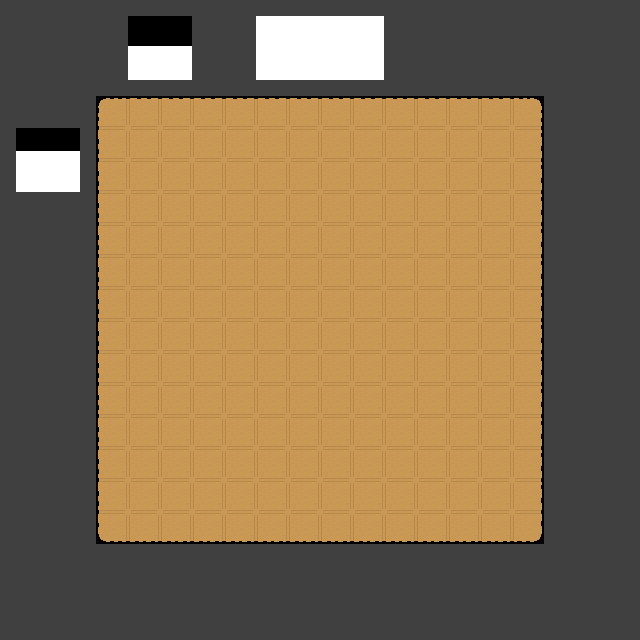
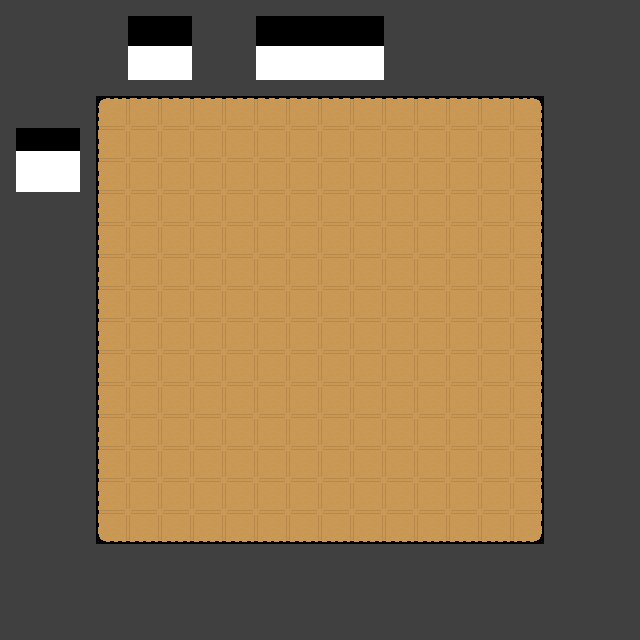
GUI update to market

Changed region(s): [[0.375, 0.0, 0.625, 0.0938]]

diff --git a/javascript/GUIManager.js b/javascript/GUIManager.js
@@ -4,7 +4,7 @@ let ctx = document.getElementById("canv").getContext("2d");
 // 0, 112, 127
 
 let GUI_Market = [
-	new Display
+	new Display // tools
 	(
 		ctx,
 		new Rect(ctx, new Vector2(24, 24), new Vector2(592, 592), "rgb(0,123,140)", true, 4, "rgb(0,0,0)"),
@@ -27,35 +27,35 @@ let GUI_Market = [
 			( // watering can 1
 				ctx,
 				new Rect(ctx, new Vector2(12, 12), new Vector2(184, 184), "rgb(0,0,0)", true, 4, "rgb(0,0,0)"),
-				new Text(ctx, new Rect(ctx, new Vector2(0, 0), new Vector2(0, 0), "rgb(0,0,0)", false, 0, "rgb(0,0,0)"), "", ""),
+				new Text(ctx, new Rect(ctx, new Vector2(28, 150), new Vector2(0, 0), "rgb(0,0,0)", false, 0, "rgb(0,0,0)"), Item.getItemByID(12).cost + " Coins", "32px helvetica"),
 				"rgb(200,200,200)", "rgb(180,180,180)", "rgb(160,160,160)"
 			),
 			new Button
 			( // watering can 2
 				ctx,
 				new Rect(ctx, new Vector2(204, 12), new Vector2(184, 184), "rgb(0,0,0)", true, 4, "rgb(0,0,0)"),
-				new Text(ctx, new Rect(ctx, new Vector2(0, 0), new Vector2(0, 0), "rgb(0,0,0)", false, 0, "rgb(0,0,0)"), "", ""),
+				new Text(ctx, new Rect(ctx, new Vector2(28, 150), new Vector2(0, 0), "rgb(0,0,0)", false, 0, "rgb(0,0,0)"), Item.getItemByID(13).cost + " Coins", "32px helvetica"),
 				"rgb(200,200,200)", "rgb(180,180,180)", "rgb(160,160,160)"
 			),
 			new Button
 			( // watering can 3
 				ctx,
 				new Rect(ctx, new Vector2(396, 12), new Vector2(184, 184), "rgb(0,0,0)", true, 4, "rgb(0,0,0)"),
-				new Text(ctx, new Rect(ctx, new Vector2(0, 0), new Vector2(0, 0), "rgb(0,0,0)", false, 0, "rgb(0,0,0)"), "", ""),
+				new Text(ctx, new Rect(ctx, new Vector2(28, 150), new Vector2(0, 0), "rgb(0,0,0)", false, 0, "rgb(0,0,0)"), Item.getItemByID(14).cost + " Coins", "32px helvetica"),
 				"rgb(200,200,200)", "rgb(180,180,180)", "rgb(160,160,160)"
 			),
 			new Button
 			( // trowel
 				ctx,
 				new Rect(ctx, new Vector2(108, 204), new Vector2(184, 184), "rgb(0,0,0)", true, 4, "rgb(0,0,0)"),
-				new Text(ctx, new Rect(ctx, new Vector2(0, 0), new Vector2(0, 0), "rgb(0,0,0)", false, 0, "rgb(0,0,0)"), "", ""),
+				new Text(ctx, new Rect(ctx, new Vector2(28, 150), new Vector2(0, 0), "rgb(0,0,0)", false, 0, "rgb(0,0,0)"), Item.getItemByID(15).cost + " Coins", "32px helvetica"),
 				"rgb(200,200,200)", "rgb(180,180,180)", "rgb(160,160,160)"
 			),
 			new Button
 			( // soil
 				ctx,
 				new Rect(ctx, new Vector2(300, 204), new Vector2(184, 184), "rgb(0,0,0)", true, 4, "rgb(0,0,0)"),
-				new Text(ctx, new Rect(ctx, new Vector2(0, 0), new Vector2(0, 0), "rgb(0,0,0)", false, 0, "rgb(0,0,0)"), "", ""),
+				new Text(ctx, new Rect(ctx, new Vector2(28, 150), new Vector2(0, 0), "rgb(0,0,0)", false, 0, "rgb(0,0,0)"), Item.getItemByID(11).cost + " Coins", "32px helvetica"),
 				"rgb(200,200,200)", "rgb(180,180,180)", "rgb(160,160,160)"
 			),
 			new Button
@@ -72,10 +72,15 @@ let GUI_Market = [
 				new Text(ctx, new Rect(ctx, new Vector2(18, 45), new Vector2(0, 0), "rgb(0,0,0)", false, 0, "rgb(0,0,0)"), ">", "96px helvetica"),
 				"rgb(200,200,200)", "rgb(180,180,180)", "rgb(160,160,160)"
 			),
-			new Text(ctx, new Rect(ctx, new Vector2(272, 531), new Vector2(0, 0), "rgb(0,0,0)", false, 0, "rgb(0,0,0)"), "1 / 2", "30px helvetica")
+			new Text(ctx, new Rect(ctx, new Vector2(272, 531), new Vector2(0, 0), "rgb(0,0,0)", false, 0, "rgb(0,0,0)"), "1 / 2", "30px helvetica"),
+			new Picture(ctx, new Rect(ctx, new Vector2(40, 32), new Vector2(128, 128), "rgb(0,0,0)", true, 4, "rgb(0,0,0)"), "img/item/tilemap/tile_5_1.png"),
+			new Picture(ctx, new Rect(ctx, new Vector2(232, 32), new Vector2(128, 128), "rgb(0,0,0)", true, 4, "rgb(0,0,0)"), "img/item/tilemap/tile_5_2.png"),
+			new Picture(ctx, new Rect(ctx, new Vector2(424, 32), new Vector2(128, 128), "rgb(0,0,0)", true, 4, "rgb(0,0,0)"), "img/item/tilemap/tile_5_3.png"),
+			new Picture(ctx, new Rect(ctx, new Vector2(136, 224), new Vector2(128, 128), "rgb(0,0,0)", true, 4, "rgb(0,0,0)"), "img/item/tilemap/tile_0_4.png"),
+			new Picture(ctx, new Rect(ctx, new Vector2(328, 224), new Vector2(128, 128), "rgb(0,0,0)", true, 4, "rgb(0,0,0)"), "img/item/tilemap/tile_5_0.png")
 		]
 	),
-	new Display
+	new Display // crops
 	(
 		ctx,
 		new Rect(ctx, new Vector2(24, 24), new Vector2(592, 592), "rgb(0,123,140)", true, 4, "rgb(0,0,0)"),
@@ -98,35 +103,35 @@ let GUI_Market = [
 			( // potato
 				ctx,
 				new Rect(ctx, new Vector2(12, 12), new Vector2(184, 184), "rgb(0,0,0)", true, 4, "rgb(0,0,0)"),
-				new Text(ctx, new Rect(ctx, new Vector2(0, 0), new Vector2(0, 0), "rgb(0,0,0)", false, 0, "rgb(0,0,0)"), "", ""),
+				new Text(ctx, new Rect(ctx, new Vector2(38, 150), new Vector2(0, 0), "rgb(0,0,0)", false, 0, "rgb(0,0,0)"), Item.getItemByID(1).cost + " Coins", "32px helvetica"),
 				"rgb(200,200,200)", "rgb(180,180,180)", "rgb(160,160,160)"
 			),
 			new Button
 			( // carrot
 				ctx,
 				new Rect(ctx, new Vector2(204, 12), new Vector2(184, 184), "rgb(0,0,0)", true, 4, "rgb(0,0,0)"),
-				new Text(ctx, new Rect(ctx, new Vector2(0, 0), new Vector2(0, 0), "rgb(0,0,0)", false, 0, "rgb(0,0,0)"), "", ""),
+				new Text(ctx, new Rect(ctx, new Vector2(38, 150), new Vector2(0, 0), "rgb(0,0,0)", false, 0, "rgb(0,0,0)"), Item.getItemByID(3).cost + " Coins", "32px helvetica"),
 				"rgb(200,200,200)", "rgb(180,180,180)", "rgb(160,160,160)"
 			),
 			new Button
 			( // barley
 				ctx,
 				new Rect(ctx, new Vector2(396, 12), new Vector2(184, 184), "rgb(0,0,0)", true, 4, "rgb(0,0,0)"),
-				new Text(ctx, new Rect(ctx, new Vector2(0, 0), new Vector2(0, 0), "rgb(0,0,0)", false, 0, "rgb(0,0,0)"), "", ""),
+				new Text(ctx, new Rect(ctx, new Vector2(38, 150), new Vector2(0, 0), "rgb(0,0,0)", false, 0, "rgb(0,0,0)"), Item.getItemByID(5).cost + " Coins", "32px helvetica"),
 				"rgb(200,200,200)", "rgb(180,180,180)", "rgb(160,160,160)"
 			),
 			new Button
 			( // tomato
 				ctx,
 				new Rect(ctx, new Vector2(108, 204), new Vector2(184, 184), "rgb(0,0,0)", true, 4, "rgb(0,0,0)"),
-				new Text(ctx, new Rect(ctx, new Vector2(0, 0), new Vector2(0, 0), "rgb(0,0,0)", false, 0, "rgb(0,0,0)"), "", ""),
+				new Text(ctx, new Rect(ctx, new Vector2(38, 150), new Vector2(0, 0), "rgb(0,0,0)", false, 0, "rgb(0,0,0)"), Item.getItemByID(7).cost + " Coins", "32px helvetica"),
 				"rgb(200,200,200)", "rgb(180,180,180)", "rgb(160,160,160)"
 			),
 			new Button
 			( // rock
 				ctx,
 				new Rect(ctx, new Vector2(300, 204), new Vector2(184, 184), "rgb(0,0,0)", true, 4, "rgb(0,0,0)"),
-				new Text(ctx, new Rect(ctx, new Vector2(0, 0), new Vector2(0, 0), "rgb(0,0,0)", false, 0, "rgb(0,0,0)"), "", ""),
+				new Text(ctx, new Rect(ctx, new Vector2(38, 150), new Vector2(0, 0), "rgb(0,0,0)", false, 0, "rgb(0,0,0)"), Item.getItemByID(9).cost + " Coins", "32px helvetica"),
 				"rgb(200,200,200)", "rgb(180,180,180)", "rgb(160,160,160)"
 			),
 			new Button
@@ -143,7 +148,12 @@ let GUI_Market = [
 				new Text(ctx, new Rect(ctx, new Vector2(18, 45), new Vector2(0, 0), "rgb(0,0,0)", false, 0, "rgb(0,0,0)"), ">", "96px helvetica"),
 				"rgb(200,200,200)", "rgb(180,180,180)", "rgb(160,160,160)"
 			),
-			new Text(ctx, new Rect(ctx, new Vector2(272, 531), new Vector2(0, 0), "rgb(0,0,0)", false, 0, "rgb(0,0,0)"), "2 / 2", "30px helvetica")
+			new Text(ctx, new Rect(ctx, new Vector2(272, 531), new Vector2(0, 0), "rgb(0,0,0)", false, 0, "rgb(0,0,0)"), "2 / 2", "30px helvetica"),
+			new Picture(ctx, new Rect(ctx, new Vector2(40, 32), new Vector2(128, 128), "rgb(0,0,0)", true, 4, "rgb(0,0,0)"), "img/item/tilemap/tile_0_0.png"),
+			new Picture(ctx, new Rect(ctx, new Vector2(232, 32), new Vector2(128, 128), "rgb(0,0,0)", true, 4, "rgb(0,0,0)"), "img/item/tilemap/tile_1_0.png"),
+			new Picture(ctx, new Rect(ctx, new Vector2(424, 32), new Vector2(128, 128), "rgb(0,0,0)", true, 4, "rgb(0,0,0)"), "img/item/tilemap/tile_2_0.png"),
+			new Picture(ctx, new Rect(ctx, new Vector2(136, 224), new Vector2(128, 128), "rgb(0,0,0)", true, 4, "rgb(0,0,0)"), "img/item/tilemap/tile_3_0.png"),
+			new Picture(ctx, new Rect(ctx, new Vector2(328, 224), new Vector2(128, 128), "rgb(0,0,0)", true, 4, "rgb(0,0,0)"), "img/item/tilemap/tile_4_0.png")
 		]
 	)
 ];

diff --git a/javascript/PlayerGUI.js b/javascript/PlayerGUI.js
@@ -130,7 +130,7 @@ class Picture{
 	constructor(ctx, rect, url){
 		this.c = ctx;
 		this.rect = rect;
-		this.url = "file:\\\\\\" + url;
+		this.url = /*"file:\\\\\\" +*/ url;
 		this.enabled = false;
 		this.img = new Image(this.rect.size.x, this.rect.size.y);
 		this.img.src = this.url;
@@ -218,7 +218,7 @@ function mouseDownEvent(e){
 			}
 			
 			hovered[i].state = 2;
-			hovered[i].draw();
+			// hovered[i].draw();
 			pressed.push(hovered[i]);
 		} else if(!hover){
 			let j = pressed.indexOf(hovered[i]);
@@ -255,7 +255,7 @@ function mouseUpEvent(e){
 		
 		if(hover){
 			pressed[i].state = 1;
-			pressed[i].draw();
+			// pressed[i].draw();
 			pressed.splice(i, 1);
 		}
 	}
@@ -284,7 +284,7 @@ function mouseMoveEvent(e){
 			hovered.splice(j, 1);
 			buttons[i].state = 0;
 		}
-		buttons[i].draw();
+		// buttons[i].draw();
 	}
 	
 	// sliders

diff --git a/index.html b/index.html
@@ -25,12 +25,12 @@
 		</h6>
 		
 		<script src="javascript/vector2.js"></script>
-		<script src="javascript/PlayerGUI.js"></script> <!-- Adding this was a mistake -->
-		<script src="javascript/GUIManager.js"></script>
 		<script src="javascript/imageManager.js"></script>
 		<script src="javascript/timer.js"></script>
 		<script src="javascript/collider.js"></script>
 		<script src="javascript/item.js"></script>
+		<script src="javascript/PlayerGUI.js"></script>
+		<script src="javascript/GUIManager.js"></script>
 		<script src="javascript/soil.js"></script>
 		<script src="javascript/player.js"></script>
 		<script src="javascript/building.js"></script>
